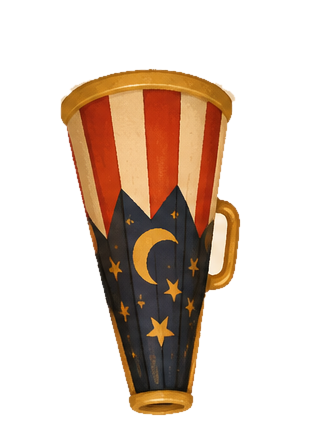
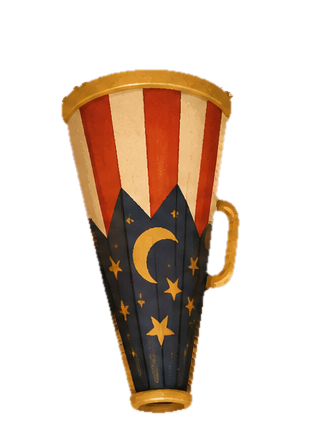
Hollers pop out of the megaphone on the Dressing Room floor
- The painted megaphone lies on the rug in every room (added to saved
  layouts; Arrange can move it). A holler makes it rattle with HEAR YE!;
  tap it and Ringleader Neeff pops out of the bell and grows over the room,
  then shrinks back in. Tap it any time to hear the last holler again.
  Pages without the room still get the standing cone.
- Bubble opens with "Ringleader Neeff says:"
- Calmer faces: happy pop-out, neutral/talking yak at an easy pace, wink
- Cleaner cut-outs: no paper fringe, handle loop see-through

diff --git a/members/app.js b/members/app.js
@@ -5260,17 +5260,47 @@ const HEAD_SVG = `<svg class="blast-head-svg" viewBox="0 0 160 190" aria-hidden=
 </svg>`;
 const artOr = (file, fallback, cls) => `<img class="${cls} blast-art" src="${ROOM}${file}" alt="" onerror="this.remove()">${fallback}`;
 
-function showBlast(blast, { live = false, preview = false } = {}) {
+// The last holler you heard, so the floor megaphone can play it again.
+function lastHoller() { try { return JSON.parse(localStorage.getItem('cs-last-holler') || 'null'); } catch (e) { return null; } }
+
+function showBlast(blast, { live = false, preview = false, replay = false } = {}) {
   blastShowing = blast.id || 'preview';
+  // In the Dressing Room the holler comes out of the megaphone on the floor:
+  // it rattles, you tap it, the Ringleader pops out and grows over the room.
+  // Anywhere else, the standing cone takes the whole screen.
+  const floorCone = document.querySelector('.room-stage [data-role="megaphone"]');
+  if (floorCone) floorCone.scrollIntoView?.({ block: 'nearest', inline: 'center' });
+  const cr = floorCone?.getBoundingClientRect();
+  const inRoom = !!cr && cr.width > 20 && cr.right > 0 && cr.left < innerWidth;
+  const scene = document.getElementById('roomScene')?.getBoundingClientRect();
+  const from = `<div class="blast-from">Ringleader ${escapeHtml(blast.sender || 'Neeff')} says:</div>`;
   const o = document.createElement('div');
-  o.className = 'blast-overlay ringing';
+  o.className = `blast-overlay ringing${inRoom ? ' in-room' : ''}`;
   o.setAttribute('role', 'dialog');
-  o.setAttribute('aria-label', `A holler from ${blast.sender || 'the Ringleader'}`);
-  o.innerHTML = `
+  o.setAttribute('aria-label', `A holler from Ringleader ${blast.sender || 'Neeff'}`);
+  o.innerHTML = inRoom ? `
+    <button class="blast-mute" aria-label="Sound on or off">${soundOff() ? '🔇' : '🔊'}</button>
+    <button class="holler-cone-hit" aria-label="Step right up and hear the message" style="left:${cr.left}px;top:${cr.top}px;width:${cr.width}px;height:${cr.height}px"></button>
+    <div class="blast-ring-words holler-words" aria-hidden="true" style="left:${cr.left + cr.width / 2}px;top:${cr.top}px"><span>HEAR YE!</span></div>
+    <div class="blast-bubble holler-bubble" hidden>
+      ${from}
+      <div class="blast-title">${escapeHtml(blast.title)}</div>
+      <div class="blast-body" aria-live="polite"></div>
+      <div class="blast-btns">
+        ${blast.url && blast.url !== '#/dressing-room' ? `<button class="forum-btn" data-go>Take me there</button>` : ''}
+        <button class="forum-btn ghost" data-done>${preview ? 'Close preview' : 'Got it!'}</button>
+      </div>
+    </div>
+    <img class="holler-head blast-head-art" src="${ROOM}head_closed.png" alt="" hidden>
+    <div class="holler-call" style="${scene ? `left:${scene.left + scene.width / 2}px;` : ''}">
+      <div class="blast-caller">📣 Ringleader ${escapeHtml(blast.sender || 'Neeff')} has something to holler!</div>
+      <button class="blast-pickup">Step right up!</button>
+    </div>` : `
     <div class="blast-stage">
       <button class="blast-mute" aria-label="Sound on or off">${soundOff() ? '🔇' : '🔊'}</button>
       <div class="blast-ring-words" aria-hidden="true"><span>HEAR YE!</span><span>HEAR YE!</span></div>
       <div class="blast-bubble" hidden>
+        ${from}
         <div class="blast-title">${escapeHtml(blast.title)}</div>
         <div class="blast-body" aria-live="polite"></div>
         <div class="blast-btns">
@@ -5283,12 +5313,13 @@ function showBlast(blast, { live = false, preview = false } = {}) {
         <span class="cone-slot"><span class="blast-head">${artOr('head_closed.png', HEAD_SVG, 'blast-head-art')}</span></span>
         <span class="cone-layer cone-l-front">${artOr('cone_front.png', CONE_FRONT_SVG, 'cone-art')}</span>
       </button>
-      <div class="blast-caller">📣 ${escapeHtml(blast.sender || 'The Ringleader')} has something to holler!</div>
+      <div class="blast-caller">📣 Ringleader ${escapeHtml(blast.sender || 'Neeff')} has something to holler!</div>
       <button class="blast-pickup">Step right up!</button>
     </div>`;
   document.body.appendChild(o);
+  if (inRoom) floorCone.classList.add('cone-ringing');
   // Warm up the face frames so the first mouth swap doesn't blink.
-  ['head_excited', 'head_open', 'head_wide', 'head_wink', 'head_cosmic'].forEach(f => { new Image().src = `${ROOM}${f}.png`; });
+  ['head_happy', 'head_open', 'head_closed', 'head_wink', 'head_cosmic'].forEach(f => { new Image().src = `${ROOM}${f}.png`; });
   let rig = megaphone();
   let stopBlare = startBlare(rig);
   let babble = () => {};
@@ -5302,27 +5333,60 @@ function showBlast(blast, { live = false, preview = false } = {}) {
     else { stopBlare = () => {}; babble = makeBabbler(rig); }
   };
   let typing = null;
-  const finish = () => { stopBlare(); clearInterval(typing); rig?.close(); o.remove(); blastShowing = null; };
+  let shrink = null;
+  const finish = () => {
+    stopBlare(); clearInterval(typing); rig?.close();
+    floorCone?.classList.remove('cone-ringing');
+    const gone = () => { o.remove(); blastShowing = null; };
+    if (shrink && !window.matchMedia('(prefers-reduced-motion: reduce)').matches) {
+      o.classList.add('leaving');
+      shrink().onfinish = gone;
+      setTimeout(gone, 700); // the animation may not report back in a hidden tab
+    } else gone();
+  };
   const answer = () => {
     if (!o.classList.contains('ringing')) return;
     stopBlare();
     if (live && blast.id) apiFetch(`/api/me/blast/${blast.id}/seen`, { method: 'POST' }).catch(() => {});
+    if (!preview) try { localStorage.setItem('cs-last-holler', JSON.stringify({ title: blast.title, body: blast.body, url: blast.url || null, sender: blast.sender || null })); } catch (e) { /* no storage */ }
+    floorCone?.classList.remove('cone-ringing');
     // A fresh rig born from this tap, so iPhones let the babble play.
     rig?.close(); rig = megaphone();
     playBoing(rig);
     babble = makeBabbler(rig);
     o.classList.remove('ringing'); o.classList.add('answered');
     o.querySelector('.blast-bubble').hidden = false;
-    const out = o.querySelector('.blast-body'), headImg = o.querySelector('.blast-head-art'), head = o.querySelector('.blast-head');
+    const out = o.querySelector('.blast-body'), headImg = o.querySelector('.blast-head-art'), head = o.querySelector(inRoom ? '.holler-head' : '.blast-head');
+    if (inRoom) {
+      // Out of the bell (the left end of the megaphone) and up to full size
+      // over the room; the speech bubble sits on top of the head.
+      // The part of the room you can actually see (phones scroll a wide room).
+      const sl = scene && scene.width > 0 ? Math.max(scene.left, 0) : 0, sr = scene && scene.width > 0 ? Math.min(scene.right, innerWidth) : innerWidth;
+      const box = { left: sl, width: sr - sl, top: scene?.top ?? 0, height: scene?.height || innerHeight };
+      const W = Math.min(box.width * (box.width < 500 ? 0.62 : 0.5), box.height * 0.52, 400), Hh = W * 270 / 250;
+      const left = box.left + box.width / 2 - W / 2, top = Math.min(box.top + box.height * 0.94, innerHeight - 16) - Hh;
+      Object.assign(head.style, { left: `${left}px`, top: `${top}px`, width: `${W}px` });
+      o.style.setProperty('--head-top', `${top}px`);
+      o.style.setProperty('--room-mid', `${box.left + box.width / 2}px`);
+      o.style.setProperty('--room-w', `${box.width}px`);
+      head.hidden = false;
+      const bell = `translate(${cr.left + cr.width * 0.08 - (left + W / 2)}px, ${cr.top + cr.height * 0.55 - (top + Hh / 2)}px) scale(${(cr.height * 0.9 / W).toFixed(3)})`;
+      if (!window.matchMedia('(prefers-reduced-motion: reduce)').matches) {
+        head.animate([{ transform: bell, opacity: 0.6 }, { transform: 'none', opacity: 1 }], { duration: 620, easing: 'cubic-bezier(.2,1.4,.4,1)' });
+      }
+      shrink = () => head.animate([{ transform: 'none', opacity: 1 }, { transform: bell, opacity: 0 }], { duration: 420, easing: 'cubic-bezier(.5,0,.8,.5)', fill: 'forwards' });
+    }
     const text = blast.body || '';
     // Neeff's own faces: pops up excited, yaks (shut / talking / shouting),
     // signs off with a wink. Say something cosmic and he goes Cosmic Mode.
     const cosmic = /cosm(ic|os)/i.test(`${blast.title} ${text}`);
     const face = f => { if (headImg) headImg.src = `${ROOM}${cosmic ? 'head_cosmic' : f}.png`; };
     if (cosmic) o.classList.add('cosmic');
-    face('head_excited');
+    face('head_happy');
     if (window.matchMedia('(prefers-reduced-motion: reduce)').matches) { out.textContent = text; face('head_wink'); return; }
-    const mouths = ['head_open', 'head_wide', 'head_open', 'head_closed'];
+    // Easy-going yak: mouth open / shut every few letters, not every one.
+    const mouths = ['head_open', 'head_closed'];
+    let flap = 0;
     let i = 0, m = 0, said = 0;
     const done = () => { clearInterval(typing); head.classList.remove('yakking'); face('head_wink'); };
     // Let the boing land, then holler: a character every 38ms, a babble
@@ -5335,7 +5399,7 @@ function showBlast(blast, { live = false, preview = false } = {}) {
         out.textContent = text.slice(0, i);
         if (ch && /[\p{L}\p{N}!?]/u.test(ch) && (said++ % 2 === 0 || ch === '!' || ch === '?')) {
           babble(ch);
-          face(mouths[m++ % mouths.length]);
+          if (flap++ % 2 === 0) face(mouths[m++ % mouths.length]);
         }
         if (i >= text.length) done();
       }, 38);
@@ -5343,7 +5407,7 @@ function showBlast(blast, { live = false, preview = false } = {}) {
     o.querySelector('.blast-bubble').onclick = e => { if (!e.target.closest('button')) { i = text.length; out.textContent = text; done(); } };
   };
   o.querySelector('.blast-pickup').onclick = answer;
-  o.querySelector('.blast-cone').onclick = answer;
+  (o.querySelector('.blast-cone') || o.querySelector('.holler-cone-hit')).onclick = answer;
   o.addEventListener('click', e => {
     if (e.target.dataset.done !== undefined) finish();
     if (e.target.dataset.go !== undefined) { finish(); location.hash = blast.url; }
@@ -5692,13 +5756,14 @@ const ORACLES = { mercury: 'https://mercury-oracle.vercel.app/', field: 'https:/
 // or null for an invisible painted hotspot), l, t, w, h (hotspots only),
 // rot, flip, z, n (which upcoming event, for flyers), anim }. The layout
 // lives in the database (Arrange mode, Ringleaders); this is the default.
-const ROOM_ASSETS = { trunk_closed: 338 / 329, trunk_open: 322 / 393, costume_ringmaster: 156 / 327, costume_teal: 143 / 382, costume_clown: 138 / 386, costume_purple: 165 / 348, costume_pink: 178 / 418, raven_perched: 151 / 287, raven_squawk: 208 / 297, flyer_circus: 147 / 239, flyer_volunteer: 122 / 212, flyer_carnival: 127 / 219, book_lectern: 188 / 282, book_open: 232 / 228, passport_closed: 145 / 212, passport_open: 191 / 181, perch_empty: 116 / 217, hatbox_closed: 185 / 160, hatbox_open: 222 / 279, popcorn: 132 / 189, potion: 76 / 161, coat_rack: 127 / 347, vanity: 283 / 271, rug: 315 / 205 };
+const ROOM_ASSETS = { megaphone_floor: 347 / 181, trunk_closed: 338 / 329, trunk_open: 322 / 393, costume_ringmaster: 156 / 327, costume_teal: 143 / 382, costume_clown: 138 / 386, costume_purple: 165 / 348, costume_pink: 178 / 418, raven_perched: 151 / 287, raven_squawk: 208 / 297, flyer_circus: 147 / 239, flyer_volunteer: 122 / 212, flyer_carnival: 127 / 219, book_lectern: 188 / 282, book_open: 232 / 228, passport_closed: 145 / 212, passport_open: 191 / 181, perch_empty: 116 / 217, hatbox_closed: 185 / 160, hatbox_open: 222 / 279, popcorn: 132 / 189, potion: 76 / 161, coat_rack: 127 / 347, vanity: 283 / 271, rug: 315 / 205 };
 const ROOM_ANIMS = { '': 'Still', sway: 'Sway (hangs from top)', flutter: 'Flutter', float: 'Float', breathe: 'Breathe', hop: 'Hop', shimmer: 'Shimmer', wobble: 'Wobble' };
 const ROOM_ROLES = {
   decor: 'Just decoration', mirror: 'Mirror → My Profile', trunk: 'Trunk → Passport & Prizes', costume: 'Costume → Profile / acts',
   flyer: 'Flyer → an upcoming event', raven: 'Raven → volunteer requests', book: 'Big Book → the forum', drawer: 'Drawer → Letters',
   exit: 'Exit → Courtyard', hatbox: 'Hat box → Ringleader tools (only you see it)', potion: 'Secret → Mercury Oracle', stars: 'Secret → Field Oracle',
   popcorn: 'Popcorn (pops)', events: 'Events list', tickets: 'My Tickets',
+  megaphone: 'Megaphone → hollers pop out of it',
 };
 const ROOM_DEFAULT = [
   { id: 'mirror', role: 'mirror', img: null, l: 6.5, t: 7, w: 33, h: 36 },
@@ -5734,6 +5799,9 @@ async function renderRoom(mainView) {
   const inner = isInnerMember();
   const saved = Array.isArray(layout.items) ? layout.items : ROOM_DEFAULT;
   let items = JSON.parse(JSON.stringify(saved));
+  // The barker's megaphone lies on the floor in every room (saved layouts
+  // from before it existed get one; Arrange can move it like anything else).
+  if (!items.some(i => i.role === 'megaphone')) items.push({ id: 'megaphone', role: 'megaphone', img: 'megaphone_floor', l: 43, t: 75, w: 24, rot: -4 });
   let selectedId = null;
 
   // What a role means right now: hover verb, destination (null = reacts in place).
@@ -5761,6 +5829,7 @@ async function renderRoom(mainView) {
       case 'popcorn': return ['Eat the Popcorn', null];
       case 'events': return ['See what’s coming up', '#/events'];
       case 'tickets': return ['Find your Tickets', '#/tickets'];
+      case 'megaphone': return [lastHoller() ? 'Pick up the Megaphone (hear the last holler)' : 'Pick up the Megaphone', null];
       default: return [null, null];
     }
   };
@@ -5897,6 +5966,11 @@ async function renderRoom(mainView) {
       el.classList.remove('pop'); void el.offsetWidth; el.classList.add('pop');
     },
     raven: () => say('Croak. Nothing to squawk about right now. It’s keeping watch.'),
+    megaphone: () => {
+      const last = lastHoller();
+      if (last) showBlast(last, { replay: true });
+      else say('Quiet for now. When the Ringleader hollers, it rattles right here.');
+    },
     drawer: () => say('Locked. The letters are for inner members — work two shifts to step inside.'),
   };
   host.addEventListener('mouseover', e => {

diff --git a/members/styles.css b/members/styles.css
@@ -1835,3 +1835,22 @@ body.forum-docked .room-arrange-btn { right: calc(var(--room-gutter) + 80px); }
 .blast-cone { width: min(250px, 60vw); aspect-ratio: 320 / 432; }
 .blast-head { left: 23%; width: 54%; }
 .cone-layer img.cone-art { object-fit: contain; }
+
+/* ── The holler in the room: out of the megaphone on the floor (2026-10-12) ── */
+.blast-from { font-family: 'Rye', serif; font-size: 12px; letter-spacing: 0.1em; text-transform: uppercase; color: #8F6E34; margin-bottom: 4px; }
+@keyframes cone-rattle { 0%,100% { transform: rotate(0) translateY(0); } 20% { transform: rotate(-6deg) translateY(-4px); } 40% { transform: rotate(5deg) translateY(-1px); } 60% { transform: rotate(-4deg) translateY(-3px); } 80% { transform: rotate(3deg); } }
+.room-obj.cone-ringing img { animation: cone-rattle 0.45s ease-in-out infinite; transform-origin: 50% 80%; filter: drop-shadow(0 0 12px rgba(255,214,140,0.95)) drop-shadow(0 4px 4px rgba(0,0,0,0.5)); }
+.blast-overlay.in-room { display: block; padding: 0; overflow: hidden; background: radial-gradient(ellipse at var(--room-mid, 50%) 70%, rgba(20,8,6,0.15), rgba(20,8,6,0.55)); backdrop-filter: none; }
+.blast-overlay.in-room.answered { background: radial-gradient(ellipse at var(--room-mid, 50%) 70%, rgba(20,8,6,0.35), rgba(20,8,6,0.75)); }
+.blast-overlay.in-room .blast-mute { position: fixed; top: 84px; right: 18px; z-index: 3; }
+.holler-cone-hit { position: fixed; z-index: 2; border: 0; padding: 0; background: none; cursor: pointer; border-radius: 40%; }
+.blast-overlay.in-room .holler-words { position: fixed; right: auto; width: max-content; display: block; transform: translate(-50%, -110%); }
+.blast-overlay.in-room .holler-words span { display: inline-block; font-size: clamp(24px, 4.5vh, 38px); }
+.holler-call { position: fixed; top: 110px; left: 50%; transform: translateX(-50%); z-index: 3; display: flex; flex-direction: column; align-items: center; gap: 10px; width: max-content; max-width: calc(100vw - 32px); text-align: center; }
+.holler-call .blast-caller { text-shadow: 0 2px 6px rgba(0,0,0,0.8); }
+.holler-head { position: fixed; z-index: 2; height: auto; pointer-events: none; filter: drop-shadow(0 10px 18px rgba(0,0,0,0.55)); }
+.holler-head.yakking { animation: td-bob 0.5s ease-in-out infinite; }
+.holler-bubble { --bw: min(560px, calc(var(--room-w, 100vw) - 24px), calc(100vw - 24px)); position: fixed; z-index: 3; left: calc(var(--room-mid, 50vw) - var(--bw) / 2); bottom: calc(100vh - var(--head-top, 50vh) + 14px); width: var(--bw); max-height: calc(var(--head-top, 50vh) - 84px); overflow-y: auto; margin: 0; }
+.blast-overlay.in-room.leaving .holler-bubble { opacity: 0; transition: opacity 0.2s; }
+@media (prefers-reduced-motion: reduce) { .room-obj.cone-ringing img, .holler-head.yakking { animation: none; } }
+.blast-overlay.in-room.answered .holler-words { display: none; }
